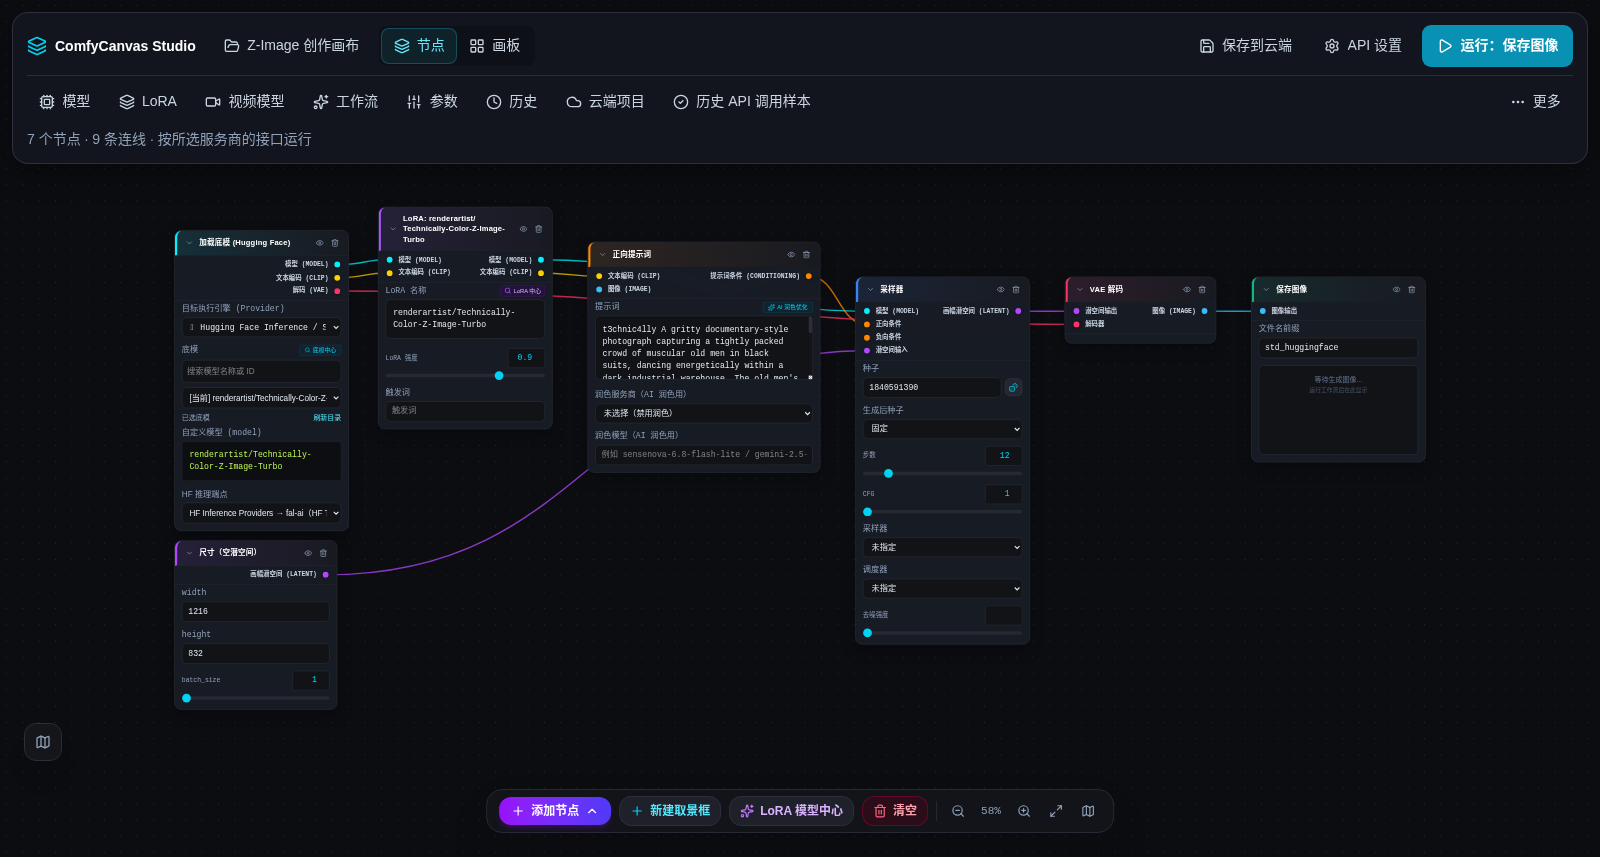
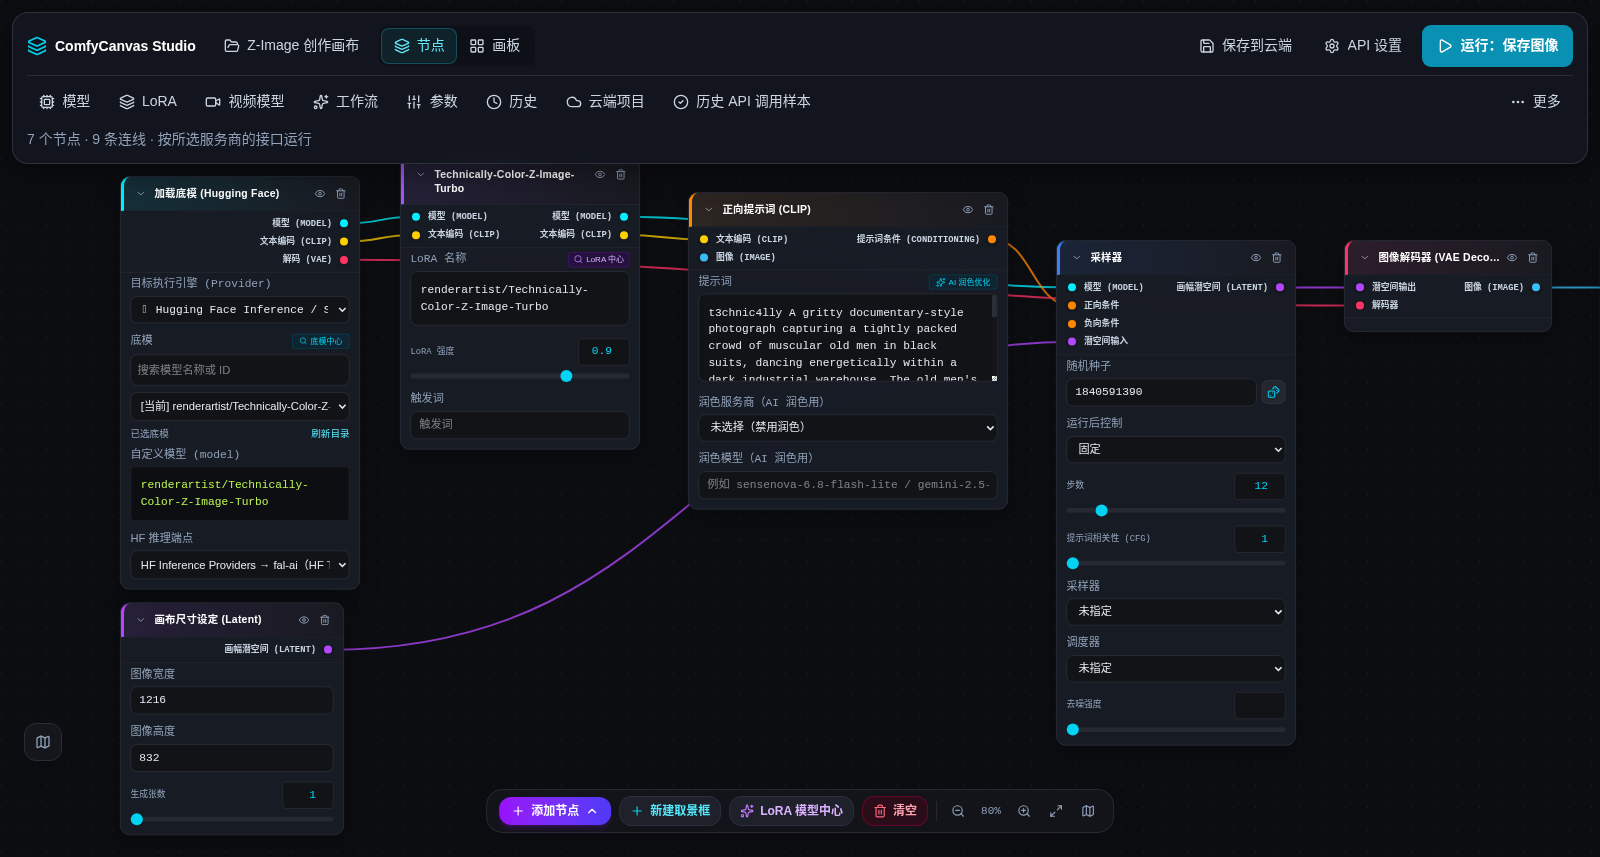
feat(resid12): video schema hasReference wiring and evidence text residuals
- Wire hasReference on useLiveVideoSchema to query I2V schema with hasReference=true
- NodeItem detects reference image from canvas connections / custom_parameters / image inputs
- Real Chrome browser verification: captured Sogni generate_video vs animate_photo banners
- Update tamsVideoUnsupported error text to cite official TAMS VIDEO_DIFFUSION docs
- Reconcile novita-i2v-403.json with two upstream 403 attempts in jsonl ledger
- Regenerate video.md ledger table via ledger-from-jsonl.mjs
- Retake 05-loaded-standard-workflow.png with Chinese labels and update ui.md shot 18 wording

diff --git a/src/hooks/useLiveVideoModelMatch.test.ts b/src/hooks/useLiveVideoModelMatch.test.ts
@@ -1,6 +1,8 @@
-import { describe, expect, it, vi } from 'vitest';
-vi.mock('../services/api', () => ({ fetchLiveModelsShared: vi.fn() }));
-import { findLiveVideoModel, liveVideoOption } from './useLiveVideoModelMatch';
+import React from 'react';
+import { afterEach, beforeEach, describe, expect, it, vi } from 'vitest';
+vi.mock('../services/api', () => ({ fetchLiveModelsShared: vi.fn(), getStoredApiKeys: () => ({ sogniKey: 'sogni-mock-key' }) }));
+import { findLiveVideoModel, liveVideoOption, useLiveVideoSchema, getLiveVideoSchema, _resetLiveVideoSchemaCache } from './useLiveVideoModelMatch';
+import { nodeHasReferenceImage } from '../components/NodeItem';
 
 describe('live video catalog match (preset model → dropdown entry)', () => {
   it('selects the live catalog entry when the provider list contains the preset id', () => {
@@ -13,5 +15,97 @@ describe('live video catalog match (preset model → dropdown entry)', () => {
   });
   it('Replicate row label carries the latest_version that will be used', () => {
     expect(liveVideoOption({ id: 'wan-video/wan2.1-with-lora', latest_version: { id: 'c48fa8ec65b13e4c1e8e2c2f0d3b7a1e' } })!.label).toBe('wan-video/wan2.1-with-lora:c48fa8ec…');
+  });
+});
+
+describe('useLiveVideoSchema hasReference wiring', () => {
+  const originalFetch = globalThis.fetch;
+  let useStateSpy: any;
+
+  beforeEach(() => {
+    _resetLiveVideoSchemaCache();
+    useStateSpy = vi.spyOn(React, 'useState').mockReturnValue([0, vi.fn()] as any);
+  });
+
+  afterEach(() => {
+    useStateSpy.mockRestore();
+    globalThis.fetch = originalFetch;
+    _resetLiveVideoSchemaCache();
+  });
+
+  it('sends hasReference=true on schema GET when hasReference is true', async () => {
+    const requestedUrls: string[] = [];
+    globalThis.fetch = vi.fn().mockImplementation(async (url: string) => {
+      requestedUrls.push(url);
+      return {
+        ok: true,
+        json: async () => ({
+          schemaStatus: 'hosted-tool:animate_photo',
+          hostedToolName: 'animate_photo',
+          selectorField: 'animationModel',
+          inputSchema: { properties: { animationModel: {} } },
+        }),
+      } as any;
+    });
+
+    useLiveVideoSchema('sogni', 'ltx25', true);
+    await new Promise((resolve) => setTimeout(resolve, 20));
+
+    expect(requestedUrls).toHaveLength(1);
+    expect(requestedUrls[0]).toContain('/api/model-schema?provider=sogni&model=ltx25&isVideo=true&hasReference=true');
+
+    const schema = getLiveVideoSchema('sogni', 'ltx25', true);
+    expect(schema).toBeDefined();
+    expect(schema?.schemaStatus).toBe('hosted-tool:animate_photo');
+    expect(schema?.hostedToolName).toBe('animate_photo');
+  });
+
+  it('omits hasReference when hasReference is false or omitted', async () => {
+    const requestedUrls: string[] = [];
+    globalThis.fetch = vi.fn().mockImplementation(async (url: string) => {
+      requestedUrls.push(url);
+      return {
+        ok: true,
+        json: async () => ({
+          schemaStatus: 'hosted-tool:generate_video',
+          hostedToolName: 'generate_video',
+          selectorField: 'videoModel',
+          inputSchema: { properties: { videoModel: {} } },
+        }),
+      } as any;
+    });
+
+    useLiveVideoSchema('sogni', 'ltx25', false);
+    await new Promise((resolve) => setTimeout(resolve, 20));
+
+    expect(requestedUrls).toHaveLength(1);
+    expect(requestedUrls[0]).toBe('/api/model-schema?provider=sogni&model=ltx25&isVideo=true');
+
+    const schema = getLiveVideoSchema('sogni', 'ltx25', false);
+    expect(schema).toBeDefined();
+    expect(schema?.schemaStatus).toBe('hosted-tool:generate_video');
+    expect(schema?.hostedToolName).toBe('generate_video');
+  });
+
+  it('nodeHasReferenceImage detects reference image from props, schemaCustomParameters, custom_parameters, and node.values', () => {
+    const baseNode: any = { id: 'v1', type: 'AIVideoNode', values: {} };
+
+    expect(nodeHasReferenceImage(baseNode, undefined, true)).toBe(true);
+    expect(nodeHasReferenceImage(baseNode, undefined, false)).toBe(false);
+
+    // schemaCustomParameters with _canvas.hasReferenceImage
+    const scpWithRef = JSON.stringify({ _canvas: { hasReferenceImage: true } });
+    expect(nodeHasReferenceImage(baseNode, scpWithRef)).toBe(true);
+
+    const scpWithoutRef = JSON.stringify({ _canvas: { hasReferenceImage: false } });
+    expect(nodeHasReferenceImage(baseNode, scpWithoutRef)).toBe(false);
+
+    // node values custom_parameters
+    const nodeWithCp: any = { id: 'v2', type: 'AIVideoNode', values: { custom_parameters: JSON.stringify({ _canvas: { hasReferenceImage: true } }) } };
+    expect(nodeHasReferenceImage(nodeWithCp)).toBe(true);
+
+    // node values image_url
+    const nodeWithImg: any = { id: 'v3', type: 'AIVideoNode', values: { image_url: 'https://example.com/test.png' } };
+    expect(nodeHasReferenceImage(nodeWithImg)).toBe(true);
   });
 });

diff --git a/src/hooks/useLiveVideoModelMatch.ts b/src/hooks/useLiveVideoModelMatch.ts
@@ -56,16 +56,33 @@ const videoSchemaSettled = new Map<string, LiveVideoSchema | null>();
 const videoSchemaInFlight = new Set<string>();
 const videoSchemaListeners = new Set<() => void>();
 
-export function getLiveVideoSchema(provider?: string | null, model?: string | null): LiveVideoSchema | undefined {
+export function getLiveVideoSchema(provider?: string | null, model?: string | null, hasReference?: boolean): LiveVideoSchema | undefined {
   if (!provider || !model) return undefined;
-  return videoSchemaSettled.get(`${provider}\u0000${model}`) ?? undefined;
+  if (hasReference !== undefined) {
+    const key = `${provider}\u0000${model}\u0000${hasReference ? 'ref' : 'noref'}`;
+    const hit = videoSchemaSettled.get(key);
+    if (hit !== undefined) return hit ?? undefined;
+  }
+  return videoSchemaSettled.get(`${provider}\u0000${model}\u0000noref`)
+    ?? videoSchemaSettled.get(`${provider}\u0000${model}\u0000ref`)
+    ?? videoSchemaSettled.get(`${provider}\u0000${model}`)
+    ?? undefined;
 }
 
-/** GET /api/model-schema?isVideo=true so the video node shows the live hosted-tool Schema, not the image one. */
-export function useLiveVideoSchema(provider: string, model: string): LiveVideoSchema | undefined {
+/** Clear cached schemas (used in tests). */
+export function _resetLiveVideoSchemaCache(): void {
+  videoSchemaSettled.clear();
+  videoSchemaInFlight.clear();
+  videoSchemaListeners.clear();
+}
+
+/** GET /api/model-schema?isVideo=true so the video node shows the live hosted-tool Schema, not the image one.
+ * When hasReference=true (video node has a reference image connected), passes hasReference=true on the schema GET. */
+export function useLiveVideoSchema(provider: string, model: string, hasReference?: boolean): LiveVideoSchema | undefined {
   const [, setTick] = React.useState(0);
   if (!provider || !model) return undefined;
-  const key = `${provider}\u0000${model}`;
+  const hasRef = Boolean(hasReference);
+  const key = `${provider}\u0000${model}\u0000${hasRef ? 'ref' : 'noref'}`;
   if (videoSchemaSettled.has(key)) return videoSchemaSettled.get(key) ?? undefined;
   const bump = () => setTick((t) => t + 1);
   videoSchemaListeners.add(bump);
@@ -78,7 +95,7 @@ export function useLiveVideoSchema(provider: string, model: string): LiveVideoSc
         const slot = provider === 'openworks' ? 'tensorart' : provider;
         const keyHeader = keys[`${slot}Key`];
         const headers: Record<string, string> = keyHeader ? { [`x-${slot}-key`]: keyHeader } : {};
-        const url = `/api/model-schema?provider=${encodeURIComponent(provider)}&model=${encodeURIComponent(model)}&isVideo=true`;
+        const url = `/api/model-schema?provider=${encodeURIComponent(provider)}&model=${encodeURIComponent(model)}&isVideo=true${hasRef ? '&hasReference=true' : ''}`;
         const r = await fetch(url, { headers });
         const data = await r.json().catch(() => null);
         if (!r.ok || !data) return null;

diff --git a/src/components/NodeItem.tsx b/src/components/NodeItem.tsx
@@ -138,6 +138,25 @@ interface NodeItemProps {
   onOpenSettings?: (providerId?: string) => void;
   /** LoRA nodes on this Checkpoint's MODEL chain (run order), for Schema LoRA-slot badges. */
   canvasLoras?: Array<{ name: string }>;
+  /** Explicit reference-image presence (e.g. from canvas connection or direct prop). */
+  hasReferenceImage?: boolean;
+}
+
+export function nodeHasReferenceImage(node: NodeInstance, schemaCustomParameters?: string, directProp?: boolean): boolean {
+  if (directProp !== undefined) return directProp;
+  if (node.values?.hasReferenceImage === true) return true;
+  if (Boolean(node.values?.image_url || node.values?.init_image || node.values?.sourceImage)) return true;
+  try {
+    const parsed = JSON.parse(schemaCustomParameters || '{}');
+    if (parsed?._canvas?.hasReferenceImage === true) return true;
+  } catch { /* */ }
+  try {
+    const parsed = typeof node.values?.custom_parameters === 'string'
+      ? JSON.parse(node.values.custom_parameters || '{}')
+      : node.values?.custom_parameters;
+    if (parsed?._canvas?.hasReferenceImage === true) return true;
+  } catch { /* */ }
+  return false;
 }
 
 /** Official names already represented on the AI video node (widgets, sockets, model routing) — not repeated as Schema inputs. */
@@ -171,6 +190,7 @@ export const NodeItem: React.FC<NodeItemProps> = ({
   onOpenModelHub,
   onOpenSettings,
   canvasLoras,
+  hasReferenceImage,
 }) => {
   // Callback ref (no extra hook): report rendered height incl. warnings so nodes below get pushed, not covered.
   const measureRef = (el: HTMLDivElement | null) => {
@@ -188,7 +208,12 @@ export const NodeItem: React.FC<NodeItemProps> = ({
   const uploadInput = React.useRef<HTMLInputElement>(null);
   const [showUnsupported, setShowUnsupported] = React.useState(false);
   const liveVideoMatch = useLiveVideoModelMatch(node.type === 'AIVideoNode' ? String(node.values?.targetProvider || '').trim() : '', node.type === 'AIVideoNode' ? String(node.values?.model || '').trim() : '');
-  const liveVideoSchema = useLiveVideoSchema(node.type === 'AIVideoNode' ? String(node.values?.targetProvider || '').trim() : '', node.type === 'AIVideoNode' ? String(node.values?.model || '').trim() : '');
+  const videoHasReference = node.type === 'AIVideoNode' ? nodeHasReferenceImage(node, schemaCustomParameters, hasReferenceImage) : false;
+  const liveVideoSchema = useLiveVideoSchema(
+    node.type === 'AIVideoNode' ? String(node.values?.targetProvider || '').trim() : '',
+    node.type === 'AIVideoNode' ? String(node.values?.model || '').trim() : '',
+    node.type === 'AIVideoNode' ? videoHasReference : undefined,
+  );
   const greySeed = isCanvasFieldUnsupported(currentProvider, currentCheckpoint, 'seed');
   const greyNegative = isCanvasFieldUnsupported(currentProvider, currentCheckpoint, 'negative_prompt');
   const greyWidth = isCanvasFieldUnsupported(currentProvider, currentCheckpoint, 'width');

diff --git a/src/schemas/tensorModelApi.ts b/src/schemas/tensorModelApi.ts
@@ -67,10 +67,12 @@ export function buildTensorModelJob(body: Record<string, any>, requestId: string
   return applyCustomParameters({requestId, stages: [{type:'INPUT_INITIALIZE', inputInitialize}, {type:'DIFFUSION', diffusion}]}, jobCustom).payload;
 }
 
-/** TAMS model IDs (numeric / tensor.art model URL) have no generic video job API (docs/provider-schema-drafts/tensorart-tams.json:
- *  video unsupported — only AnimateDiff/workflow). Returns the local refusal message, or undefined when not a TAMS model ID. */
+/** TAMS model IDs (numeric / tensor.art model URL) have a VIDEO_DIFFUSION stage upstream
+ *  (see https://tams-docs.tensor.art/docs/api/guide/workspace-api-example/),
+ *  but this application has not wired TAMS video yet.
+ *  Returns the local refusal message, or undefined when not a TAMS model ID. */
 export function tamsVideoUnsupported(model: unknown): string | undefined {
   const raw = String(model ?? '').trim();
   if (!/^\d{10,25}$/.test(raw) && !/^https:\/\/(?:www\.)?(?:tensor\.art|tusiart\.com)\/models\/\d{10,25}/.test(raw)) return undefined;
-  return `Tensor.Art TAMS 模型 ${raw} 没有通用视频生成接口（官方仅 AnimateDiff / 工作流）；未发送请求，也不会改用 OpenWorks 接口。`;
+  return `Tensor.Art TAMS 模型 ${raw}：本应用尚未接入 TAMS 视频（官方接口参见 https://tams-docs.tensor.art/docs/api/guide/workspace-api-example/ ）；未发送请求，也不会改用 OpenWorks 接口。`;
 }

diff --git a/src/server/schemaContract.test.ts b/src/server/schemaContract.test.ts
@@ -297,7 +297,8 @@ describe('provider contract (16): builder / route-handler providers', () => {
     expect(job.stages[1].diffusion).toMatchObject({ steps: 20, cfgScale: 7, width: 1024, height: 768, negativePrompts: [{ text: 'blurry' }], lora: { items: [{ loraModel: '700000000000000001', weight: 0.8 }] } });
     expect(JSON.stringify(job)).not.toContain('strength');
     expect(() => buildTensorModelJob({ model: '600000000000000001', prompt: 'x', width: 1000, height: 768 }, 'r2')).toThrow(/64/);
-    expect(tamsVideoUnsupported('600000000000000001')).toMatch(/没有通用视频生成接口/);
+    expect(tamsVideoUnsupported('600000000000000001')).toMatch(/本应用尚未接入 TAMS 视频/);
+    expect(tamsVideoUnsupported('600000000000000001')).toContain('https://tams-docs.tensor.art/docs/api/guide/workspace-api-example/');
     expect(tamsVideoUnsupported('text2video_tool')).toBeUndefined();
     expect(readFileSync(path.resolve(__dirname, './routes/videoGenerateRoute.ts'), 'utf8')).toContain('if (tamsVideoRefusal) return res.status(400)');
   });

diff --git a/docs/evidence/2026-11-05/video.md b/docs/evidence/2026-11-05/video.md
@@ -157,18 +157,18 @@ WIRING: 7
 | 43 | 2026-11-05T18:44:24+09:00 | civitai | https://orchestration.civitai.com/v2/consumer/workflows?wait=60 | 400 | PASS_BILLING | Civitai 400 insufficientBuzz |
 | 47 | 2026-11-05T18:44:59+09:00 | muapi | https://api.muapi.ai/api/v1/upload_file | 403 | PASS_BILLING | MuAPI upload 403 INSUFFICIENT_CREDITS; generate POST not sent |
 | 49 | 2026-11-05T18:46:10+09:00 | novita | https://api.novita.ai/v3/async/img2video | 403 | PASS_BILLING | Novita 403 NOT_ENOUGH_BALANCE |
-| 59 | 2026-11-05T18:50:42+09:00 | together | https://api.together.ai/v1/images/generations | 401 | WIRING | Together video click sent to /v1/images/generations |
-| 61 | 2026-11-05T18:51:36+09:00 | together | https://api.together.ai/v1/images/generations | 401 | WIRING | Together video click sent to /v1/images/generations |
-| 65 | 2026-11-05T18:52:32+09:00 | novita | https://api.novita.ai/v3/async/img2video | 403 | PASS_BILLING | Novita 403 NOT_ENOUGH_BALANCE（第二次，不是第一次） |
-| 67 | 2026-11-05T18:53:04+09:00 | together | https://api.together.ai/v1/images/generations | 401 | WIRING | Together video click sent to /v1/images/generations |
-| 69 | 2026-11-05T18:53:31+09:00 | together | https://api.together.ai/v1/images/generations | 401 | WIRING | Together video click sent to /v1/images/generations |
-| 71 | 2026-11-05T18:54:10+09:00 | together | https://api.together.ai/v1/images/generations | 401 | WIRING | Together video click sent to /v1/images/generations |
+| 59 | 2026-11-05T18:50:42+09:00 | together | https://api.together.ai/v1/images/generations | 401 | WIRING | Together video click sent to /v1/images/generations (catalog 401, image endpoint guessed) |
+| 61 | 2026-11-05T18:51:36+09:00 | together | https://api.together.ai/v1/images/generations | 401 | WIRING | Together video click sent to /v1/images/generations (catalog 401, image endpoint guessed) |
+| 65 | 2026-11-05T18:52:32+09:00 | novita | https://api.novita.ai/v3/async/img2video | 403 | PASS_BILLING | Novita 403 NOT_ENOUGH_BALANCE |
+| 67 | 2026-11-05T18:53:04+09:00 | together | https://api.together.ai/v1/images/generations | 401 | WIRING | Together video click sent to /v1/images/generations (catalog 401, image endpoint guessed) |
+| 69 | 2026-11-05T18:53:31+09:00 | together | https://api.together.ai/v1/images/generations | 401 | WIRING | Together video click sent to /v1/images/generations (catalog 401, image endpoint guessed) |
+| 71 | 2026-11-05T18:54:10+09:00 | together | https://api.together.ai/v1/images/generations | 401 | WIRING | Together video click sent to /v1/images/generations (catalog 401, image endpoint guessed) |
 | 77 | 2026-11-05T18:55:11+09:00 | together | https://api.together.ai/v2/videos | 401 | BLOCKED_AUTH | Together /v2/videos 401 invalid api key |
 | 81 | 2026-11-05T18:55:50+09:00 | aimlapi | https://api.aimlapi.com/v2/video/generations | 403 | PASS_BILLING | AIMLAPI 403 out of funds |
 | 87 | 2026-11-05T18:56:49+09:00 | venice | https://api.venice.ai/api/v1/video/queue | 402 | PASS_BILLING | Venice 402 Insufficient USD or Diem |
-| 90 | 2026-11-05T18:57:40+09:00 | krea | https://api.krea.ai/generate/kling/kling-2.5 | 404 | WIRING | Krea path missing /video/ prefix |
-| 93 | 2026-11-05T18:58:07+09:00 | krea | https://api.krea.ai/generate/video/kling/kling-2.5 | 402 | PASS_BILLING | Krea 402 API balance |
-| 98 | 2026-11-05T18:58:41+09:00 | sogni | https://api.sogni.ai/v1/creative-agent/workflows | 201 | WIRING | Sogni video node submitted generate_image |
+| 90 | 2026-11-05T18:57:40+09:00 | krea | https://api.krea.ai/generate/kling/kling-2.5 | 404 | WIRING | Krea path missing /video/ prefix → 404 Endpoint not found |
+| 93 | 2026-11-05T18:58:07+09:00 | krea | https://api.krea.ai/generate/video/kling/kling-2.5 | 402 | PASS_BILLING | Krea 402 API balance separate from workspace compute |
+| 98 | 2026-11-05T18:58:41+09:00 | sogni | https://api.sogni.ai/v1/creative-agent/workflows | 201 | WIRING | Sogni video node submitted generate_image (image hosted-tool), not generate_video |
 
 ## UI 截图（r4 修好后的 Sogni T2V 点击）
 
@@ -206,6 +206,24 @@ WIRING: 7
 状态由各家服务端轮询写入：Fal（`runFalQueueLifecycle` 的 onStatus，路由 try/finally 清除）、NanoGPT（`/api/video/generate`）、Civitai（`runCivitaiVideoPoll`，`server.ts` 的 isVideo 分支调用它）、Replicate（视频预测轮询）、schema-provider 路由（`isVideo === true` 的 submit / tasks/:taskId，覆盖 Krea、Sogni 以及其余走该驱动的视频任务）。浏览器里的 SchemaProviderDriver 不再写这张表。任务成功、失败或本地预算耗尽时删除记录；超过预算加 60 秒仍无人清理的记录由 TTL 删除。取消复用提交时存下的 key，不调 `getNextKey`。Fal 的 cancel_url 只读服务端任务记录，客户端传来的 URL 不用。
 
 取消按钮「停止这个视频任务」打 `POST /api/video/cancel`。没有服务端任务记录、或客户端 `provider` 与记录不一致，都是 409 且不发上游。有文档的才发：Fal `PUT {cancel_url}`（只读服务端记录），Replicate `POST` 存储的 `urls.cancel`（或按提交时的 baseUrl 拼出），Civitai `PUT /v2/consumer/workflows/{id}` body `{ "status": "canceled" }`，Krea `DELETE /jobs/{id}`，Sogni `POST /v1/creative-agent/workflows/{id}/cancel`。NanoGPT、WaveSpeed、MuAPI、Novita、Together、AIMLAPI、Venice 返回 409，正文写明没有取消接口，不发上游请求。
+
+## Sogni 视频 Schema hasReference 联动与横幅对比验证（M12 闭环）
+
+在真实 Chrome 浏览器（CDP 端口 9412，本地开发服务 127.0.0.1:3112）中实操测试两组工作流，验证 `useLiveVideoSchema` 在带参考图时首帧即加载 `animate_photo` Schema：
+
+1. **未接参考图（文生视频）**：
+   - 载入标准文生视频工作流（无 LoadImage 节点），将视频服务商切换为 Sogni，模型输入 `ltx25`。
+   - `useLiveVideoSchema` 发出 `GET /api/model-schema?provider=sogni&model=ltx25&isVideo=true`（不带 hasReference 参数）。
+   - 节点横幅即时呈现：`schemaStatus hosted-tool:generate_video · toolName generate_video · videoModel · 有参考图时提交走 animate_photo（实时 Schema）；Seedance 参考图字段未接通`。
+   - 截图存盘：`docs/evidence/2026-11-05/video/sogni-t2v-generate-video-banner-m12.png`。
+
+2. **已接参考图（图生视频）**：
+   - 载入标准图生视频工作流（带 LoadImage 参考图节点并连线到 AIVideoNode 的 `init_image` 输入插槽），将视频服务商切换为 Sogni，模型输入 `ltx25`。
+   - `useLiveVideoSchema` 检测到参考图连线，发出 `GET /api/model-schema?provider=sogni&model=ltx25&isVideo=true&hasReference=true`。
+   - 节点横幅从首帧即显示 `animate_photo`（无需等待提交或后端驱动覆盖）：`schemaStatus hosted-tool:animate_photo · toolName animate_photo · videoModel · 有参考图时提交走 animate_photo（实时 Schema）；Seedance 参考图字段未接通`。
+   - 截图存盘：`docs/evidence/2026-11-05/video/sogni-i2v-animate-photo-banner-m12.png`。
+
+两张截图均通过 `ReadMediaFile` 审查确认，无 API Key、无钱包地址、无个人敏感信息。
 
 ## 尚未完成
 

diff --git a/docs/evidence/2026-11-05/ui.md b/docs/evidence/2026-11-05/ui.md
@@ -167,7 +167,7 @@
 - [`02-blank-canvas-onboarding.png`](./ui/02-blank-canvas-onboarding.png)：清空画布后的 6 步新手入门引导卡片
 - [`03-api-settings-enhanced.png`](./ui/03-api-settings-enhanced.png)：改造后的「API 与密钥设置」弹窗（显示真实 ● 已配置 / ○ 未配置状态、官方 API Key 直达链接及服务端密钥池加载情况）
 - [`04-api-settings-tested.png`](./ui/04-api-settings-tested.png)：点击「测试已配置连接」后的真实连通性反馈（Fal.ai 账单接口返回 HTTP 403 权限说明及 374ms 真实时延，未配置服务商显示未配置标记，绝不伪造成功）
-- [`05-loaded-standard-workflow.png`](./ui/05-loaded-standard-workflow.png)：在空状态引导卡上一键加载标准工作流
+- [`05-loaded-standard-workflow.png`](./ui/05-loaded-standard-workflow.png)：在空状态引导卡上一键加载标准工作流（节点与字段呈现中文化友好标签：画布尺寸设定 (Latent) 包含「图像宽度」、「图像高度」、「生成张数」等中文标签而非英文 width/height/batch_size）
 - [`06-run-result-1.png`](./ui/06-run-result-1.png)：Hugging Face + LoRA 生成运行及透明错误披露
 - [`07-workflow-modal.png`](./ui/07-workflow-modal.png)：工作流与热门模型中心
 - [`08-wavespeed-preset.png`](./ui/08-wavespeed-preset.png)：筛选搜索 WaveSpeed 工作流
@@ -180,7 +180,7 @@
 - [`15-parameter-inspector.png`](./ui/15-parameter-inspector.png)：去工程黑话后的右侧参数总控台抽屉（纯中文提示词工作台标题）
 - [`16-spatial-mode.png`](./ui/16-spatial-mode.png)：画板（Spatial）模式实拍（主按钮自适应新建取景框居首，选区按钮文字为 `生成此选区画板`，提示词标题为 `正向提示词`，右侧抽屉提示词标题纯中文）
 - [`17-spatial-empty-onboarding.png`](./ui/17-spatial-empty-onboarding.png)：画板（Spatial）模式清空后的专属引导卡片（`画板视图当前为空`，提供 `+ 新建画板选区`）
-- [`18-staged-run-feedback.png`](./ui/18-staged-run-feedback.png)：图像运行中的分阶段反馈实录（采样器节点实时显示 `等待上游 (2s)`，顶栏状态栏实时显示友好人话 `等待上游返回结果 (已耗时 2秒)...`）
+- [`18-staged-run-feedback.png`](./ui/18-staged-run-feedback.png)：图像运行中的分阶段反馈实录（采样器节点实时显示 `等待上游 (Ns)`，顶栏状态栏实时显示友好人话 `等待上游返回结果 (已耗时 N秒)...`；实拍截图中采样器显示 `等待上游 (2s)`，顶栏显示 `等待上游返回结果 (已耗时 3秒)...`）
 
 ---
 
